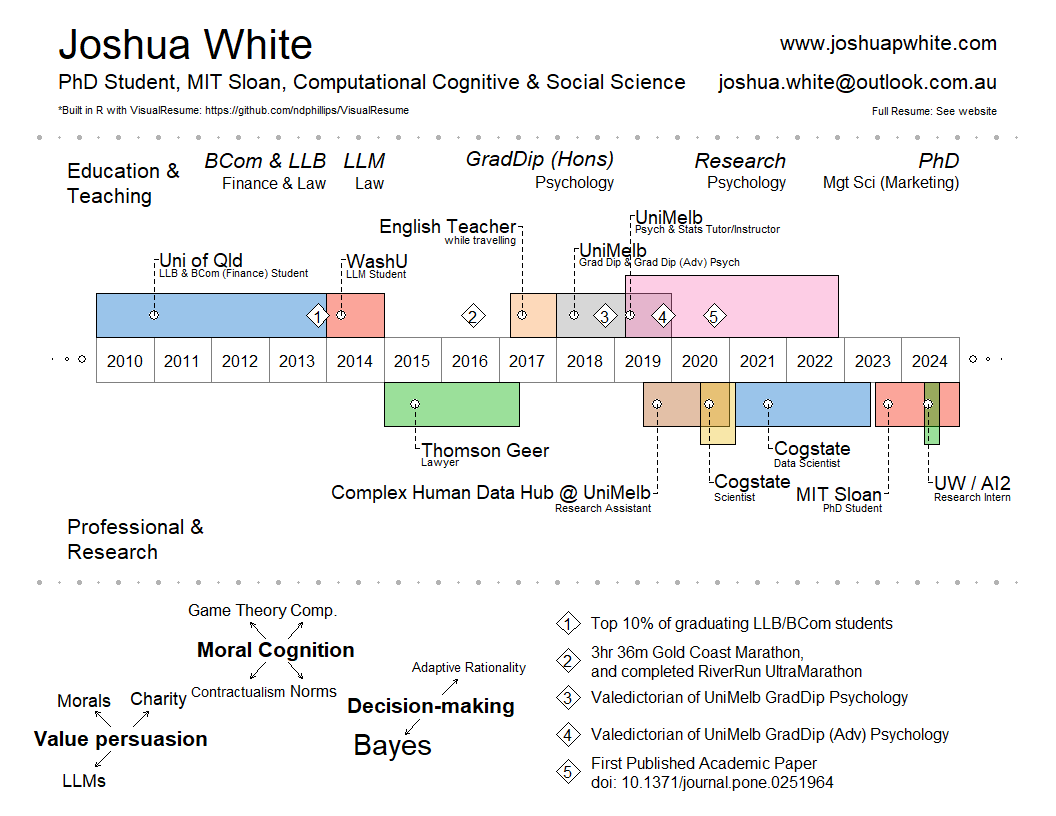
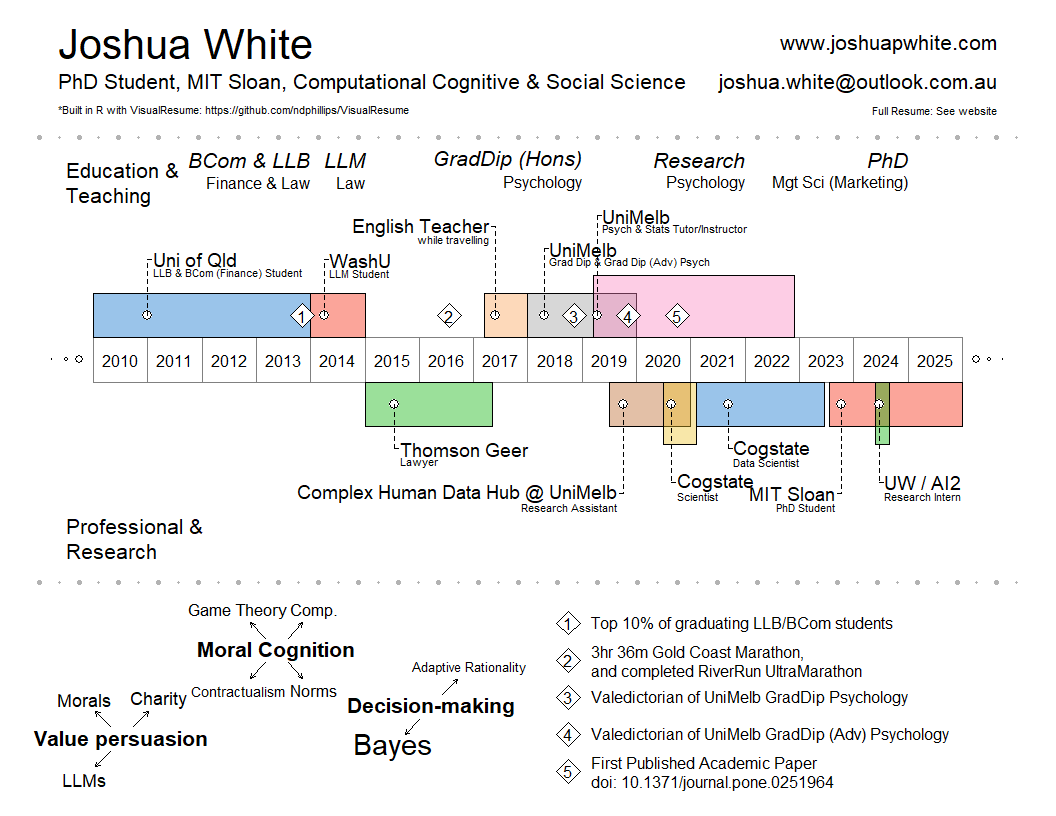
Update visual CV for 2025

diff --git a/README.md b/README.md
@@ -42,7 +42,7 @@ VisualResume(
               "Psych & Stats Tutor/Instructor", "Research Assistant", 
               "Scientist", "Data Scientist", "PhD Student", "Research Intern"),
       start = c(2010, 2014,    2015, 2017.2, 2018, 2019.2, 2019.5, 2020.5, 2021.1, 2023.55, 2024.4),
-      end =   c(2014, 2015, 2017.35,   2018, 2020, 2022.9,   2021, 2021.1, 2023.45, 2025, 2024.65),
+      end =   c(2014, 2015, 2017.35,   2018, 2020, 2022.9,   2021, 2021.1, 2023.45, 2026, 2024.65),
       side = c(1, 1, 0, 1, 1, 1, 0, 0, 0, 0, 0),
       label.y = c(72.5, 72.5, 30, 80, 75, 82.5, 20, 22.5, 30, 20, 22.5)
     ),
